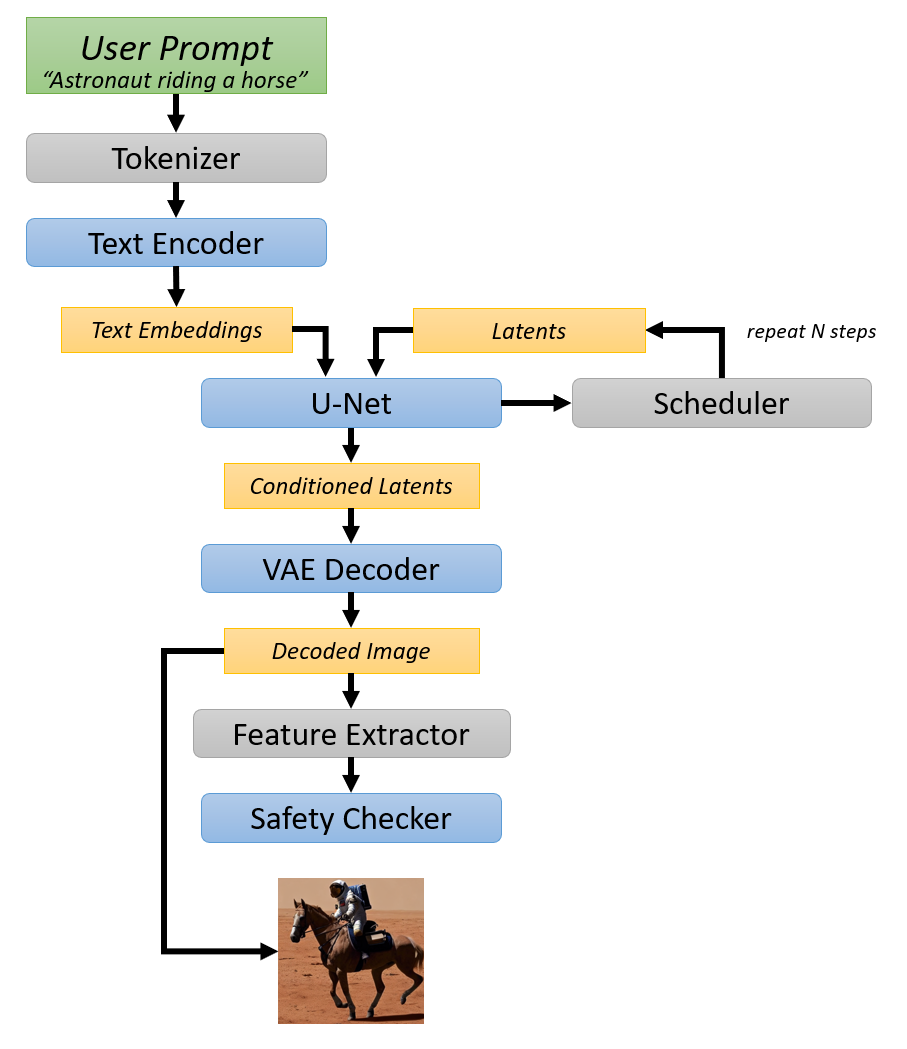
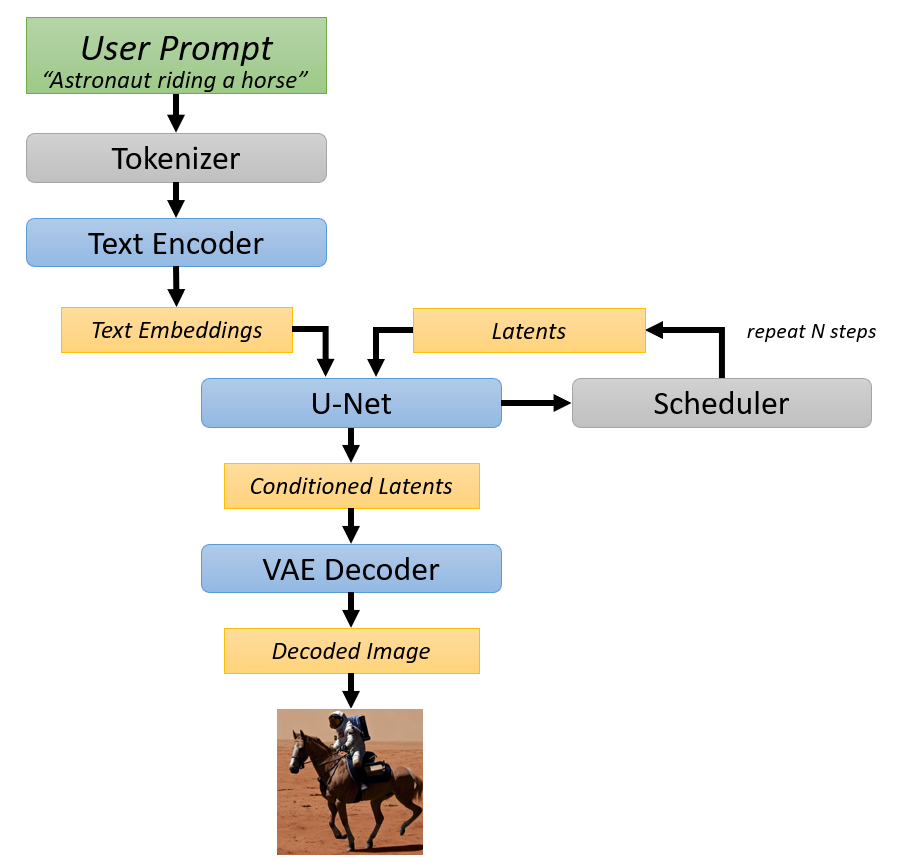
Add general stable diffusion landing page, Exclude untested examples from CI (#808)
## Describe your changes
- Add `examples/stable_diffusion` landing page since we can now run SD
and SDXL optmizations for cuda and directml. There are plans for other
EPs too.
- Add solution for temp directory out of space issue
- Exclude commonly updated examples that are not tested yet from CI.
This way we don't unnecessarily trigger CI jobs and waste both dev time
and agent resources.
- update pipeline image in sdxl to remove safety checker 

Fixes: 
https://github.com/microsoft/Olive/issues/804

## Checklist before requesting a review
- [ ] Add unit tests for this change.
- [ ] Make sure all tests can pass.
- [ ] Update documents if necessary.
- [ ] Lint and apply fixes to your code by running `lintrunner -a`
- [ ] Is this a user-facing change? If yes, give a description of this
change to be included in the release notes.

## (Optional) Issue link

Changed region(s): [[0.0309, 0.0, 0.9879, 0.9977]]

diff --git a/examples/directml/stable_diffusion_xl/README.md b/examples/directml/stable_diffusion_xl/README.md
@@ -75,7 +75,7 @@ If you omit `--interactive`, the script will generate the requested number of im
 
 The minimum number of inferences will be `ceil(num_images / batch_size)`; additional inferences may be required of some outputs are flagged by the safety checker to ensure the desired number of outputs are produced.
 
-## Stable Diffusion Optimization with CUDA
+## Stable Diffusion XL Optimization with CUDA
 This example can also be used to optimize Stable Diffusion models for CUDA. You can use the same `stable_diffusion.py` script with `--provider cuda` option to optimize the models for CUDA and test inference. The optimized models will be stored under `models/optimized-cuda/[model_id]` (for example `models/optimized-cuda/stabilityai/stable-diffusion-xl-base-1.0`).
 
 Install the common requirements:
@@ -94,13 +94,15 @@ pip install ort-nightly-gpu --extra-index-url https://aiinfra.pkgs.visualstudio.
 
 ## Issues
 
-If you run into the following error while optimizing models, it is likely that your local HuggingFace cache has an incomplete copy of the stable diffusion model pipeline. Deleting `C:\users\<username>\.cache\huggingface` should resolve the issue by ensuring a fresh copy is downloaded.
+- If you run into the following error while optimizing models, it is likely that your local HuggingFace cache has an incomplete copy of the stable diffusion model pipeline. Deleting `C:\users\<username>\.cache\huggingface` should resolve the issue by ensuring a fresh copy is downloaded.
 
-```
-OSError: Can't load tokenizer for 'C:\Users\<username>\.cache\huggingface\hub\models--stabilityai--stable-diffusion-xl-base-1.0\snapshots\<sha>'. If you were trying to load it from 'https://huggingface.co/models', make sure you don't have a local directory with the same name. Otherwise, make sure 'C:\Users\<username>\.cache\huggingface\hub\models--stabilityai--stable-diffusion-xl-base-1.0\snapshots\<sha>' is the correct path to a directory containing all relevant files for a CLIPTokenizer tokenizer.
-```
+  ```
+  OSError: Can't load tokenizer for 'C:\Users\<username>\.cache\huggingface\hub\models--stabilityai--stable-diffusion-xl-base-1.0\snapshots\<sha>'. If you were trying to load it from 'https://huggingface.co/models', make sure you don't have a local directory with the same name. Otherwise, make sure 'C:\Users\<username>\.cache\huggingface\hub\models--stabilityai--stable-diffusion-xl-base-1.0\snapshots\<sha>' is the correct path to a directory containing all relevant files for a CLIPTokenizer tokenizer.
+  ```
 
-If you want to use `stabilityai/stable-diffusion-xl-base-1.0` for image-to-image pipeline, set `"float16": false` in `config_vae_encoder.json`. Otherwise, the output image will be black.
+- If you want to use `stabilityai/stable-diffusion-xl-base-1.0` for image-to-image pipeline, set `"float16": false` in `config_vae_encoder.json`. Otherwise, the output image will be black.
+
+- Onnx conversion for unet terminates silently without any error message. This could be because your system ran out of disk space in the temp directory. You can add `--tempdir .` to the command line to use the current directory as the temp directory root. `.` can be replaced with any other directory with sufficient disk space and write permission.
 
 ## Stable Diffusion Pipeline
 

diff --git a/examples/directml/stable_diffusion/README.md b/examples/directml/stable_diffusion/README.md
@@ -130,11 +130,13 @@ pip install ort-nightly-gpu --extra-index-url https://aiinfra.pkgs.visualstudio.
 
 ## Issues
 
-If you run into the following error while optimizing models, it is likely that your local HuggingFace cache has an incomplete copy of the stable diffusion model pipeline. Deleting `C:\users\<username>\.cache\huggingface` should resolve the issue by ensuring a fresh copy is downloaded.
+- If you run into the following error while optimizing models, it is likely that your local HuggingFace cache has an incomplete copy of the stable diffusion model pipeline. Deleting `C:\users\<username>\.cache\huggingface` should resolve the issue by ensuring a fresh copy is downloaded.
 
-```
-OSError: Can't load tokenizer for 'C:\Users\<username>\.cache\huggingface\hub\models--runwayml--stable-diffusion-v1-5\snapshots\<sha>'. If you were trying to load it from 'https://huggingface.co/models', make sure you don't have a local directory with the same name. Otherwise, make sure 'C:\Users\<username>\.cache\huggingface\hub\models--runwayml--stable-diffusion-v1-5\snapshots\<sha>' is the correct path to a directory containing all relevant files for a CLIPTokenizer tokenizer.
-```
+  ```
+  OSError: Can't load tokenizer for 'C:\Users\<username>\.cache\huggingface\hub\models--runwayml--stable-diffusion-v1-5\snapshots\<sha>'. If you were trying to load it from 'https://huggingface.co/models', make sure you don't have a local directory with the same name. Otherwise, make sure 'C:\Users\<username>\.cache\huggingface\hub\models--runwayml--stable-diffusion-v1-5\snapshots\<sha>' is the correct path to a directory containing all relevant files for a CLIPTokenizer tokenizer.
+  ```
+
+- Onnx conversion for unet terminates silently without any error message. This could be because your system ran out of disk space in the temp directory. You can add `--tempdir .` to the command line to use the current directory as the temp directory root. `.` can be replaced with any other directory with sufficient disk space and write permission.
 
 ## Stable Diffusion Pipeline
 

diff --git a/examples/stable_diffusion/README.md b/examples/stable_diffusion/README.md
@@ -1,0 +1,11 @@
+# Stable Diffusion Optimization
+
+Please see the following to optimize stable diffusion models with Olive for different ONNX Runtime execution providers:
+- [DirectML](../directml/stable_diffusion/README.md)
+- [CUDA](../directml/stable_diffusion/README.md#stable-diffusion-optimization-with-cuda)
+
+# Stable Diffusion XL Optimization
+
+Please see the following to optimize stable diffusion XL models with Olive for different ONNX Runtime execution providers:
+- [DirectML](../directml/stable_diffusion_xl/README.md)
+- [CUDA](../directml/stable_diffusion_xl/README.md#stable-diffusion-optimization-with-cuda)
